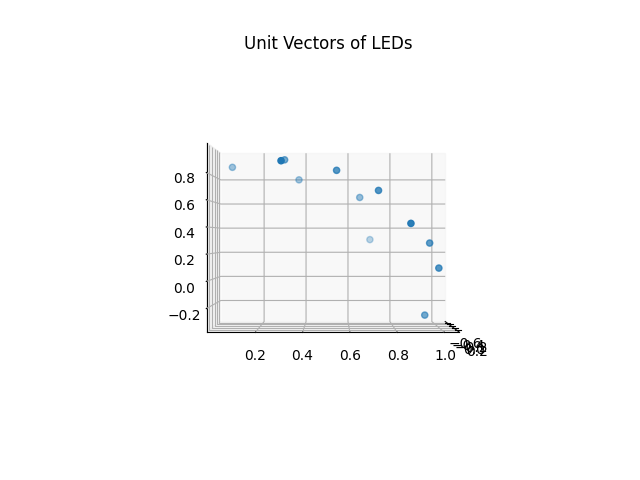
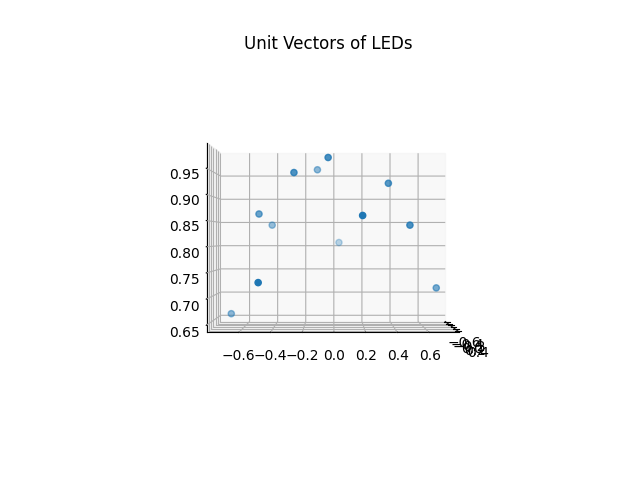
08Aug,1711, bug fixed, decent result produced.

Changed region(s): [[0.25, 0.3125, 0.7812, 0.75]]

diff --git a/07Aug_new_method_LEDs/centre.py b/07Aug_new_method_LEDs/centre.py
@@ -1,7 +1,7 @@
 import matplotlib.pyplot as plt
 import numpy as np
 import cv2 as cv
-from FindLightDirection.position_of_light.Tifs import ReadTiF
+import ReadTiF
 
 #camera hight 39.5cm position (0,0,1)
 #ballr = 2.54cm
@@ -26,6 +26,7 @@ normaliz = cv.normalize(image, None, 0, 255, cv.NORM_MINMAX,dtype=cv.CV_8UC1)
 print("Image data after Normalize:\n", normaliz)
 
 # plt.imshow(normaliz)
+# plt.gray()
 # plt.show()
 
 
@@ -37,7 +38,7 @@ def Findcentre():
 
  contours, hierarchy = cv.findContours(edge, cv.RETR_EXTERNAL, cv.CHAIN_APPROX_SIMPLE)
  mask = np.zeros_like(normaliz)
- mask1 = cv.drawContours(mask, contours, 2, (255, 255, 255), -1)
+ mask1 = cv.drawContours(mask, contours, -1, (255, 255, 255), -1)
 
  # plt.imshow(mask1)
  # plt.show()
@@ -82,7 +83,7 @@ def Findcentre():
 
 
 
- # plt.imshow(mask,origin='lower')
+ # plt.imshow(mask,origin='upper')
  # plt.scatter(x,y)
  # plt.show()
 

diff --git a/07Aug_new_method_LEDs/LEDs.py b/07Aug_new_method_LEDs/LEDs.py
@@ -64,7 +64,7 @@ def function():
  plt.title('Unit Vectors of LEDs')
  plt.savefig('Unit Vectors of LEDs')
  plt.show()
-
+ #
  # fig = plt.figure()
  # ax = fig.add_subplot(projection='3d')
  # ax.scatter(X,Y,Z,c='yellow')
@@ -97,7 +97,7 @@ def function():
  # plt.savefig('Normalized Unit Vectors of LEDs with surface')
  # plt.show()
 
- np.save('/Users/nicolas/Desktop/MasterProject/TiF/aug.npy',light_positions)
+ np.save('/Users/nicolas/Desktop/MasterProject/TiF/aug08.npy',light_positions)
  return light_positions
 
 if __name__ == '__main__':

diff --git a/07Aug_new_method_LEDs/BrightSpots.py b/07Aug_new_method_LEDs/BrightSpots.py
@@ -64,6 +64,7 @@ def LightDirec(Sub):
      # plt.scatter(index[0],index[1])
      # plt.scatter(twoDcentre[0],twoDcentre[1],c='red')
      # plt.scatter(696,520, c='yellow')
+     # plt.gray()
      # plt.show()
      #
      centre_shift = twoDcentre[0],twoDcentre[1]
@@ -180,7 +181,8 @@ def LightDirec(Sub):
 #     # y()
 #     # LightDirec(5)
 if __name__ == '__main__':
-    print(LightDirec(50))
+    for i in range(12):
+        LightDirec(i)
 
 
 

diff --git a/07Aug_new_method_LEDs/ReadTiF.py b/07Aug_new_method_LEDs/ReadTiF.py
@@ -11,7 +11,7 @@ import numpy as np
 image = []
 def readtif(pathoffiveballs = 'ball13_2_MMStack_Pos0.ome.tif',pathofpositions = 'ball13_2_MMStack_Pos0.ome.tif',Centre =None):
 
-    read_image = np.array(tifffile.imread(pathoffiveballs))
+    read_image = tifffile.imread(pathoffiveballs)
     read_positions = tifffile.imread(pathofpositions)
     read_positions = sum(read_positions[0:12])
 
